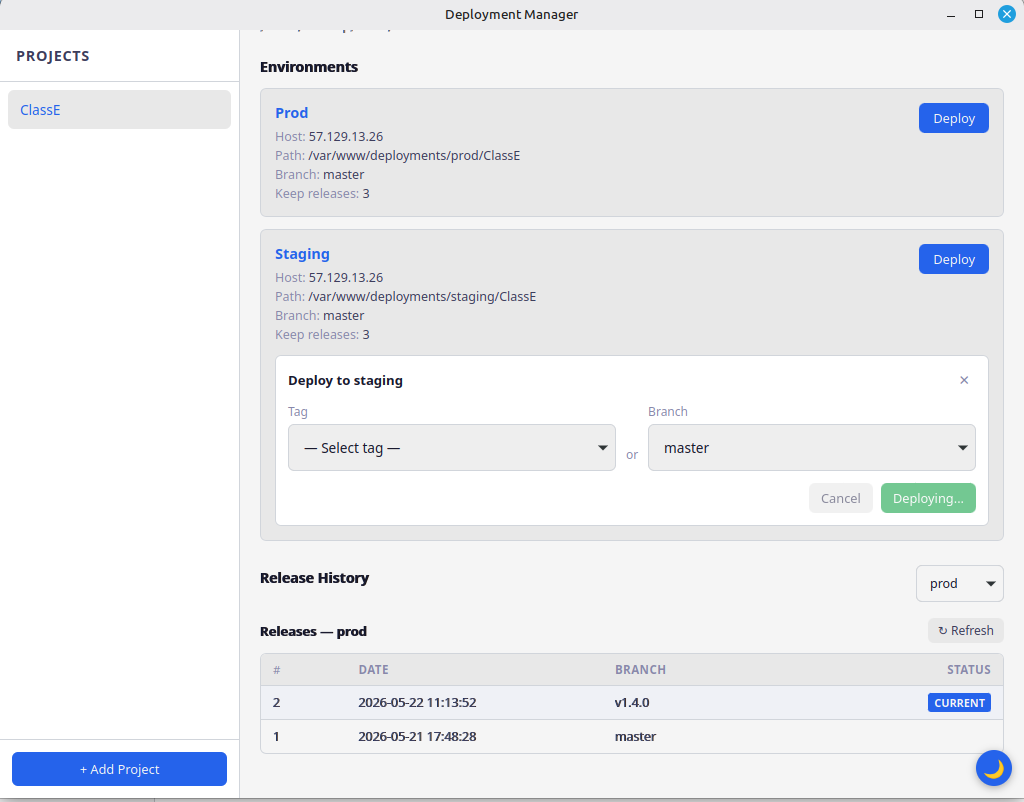
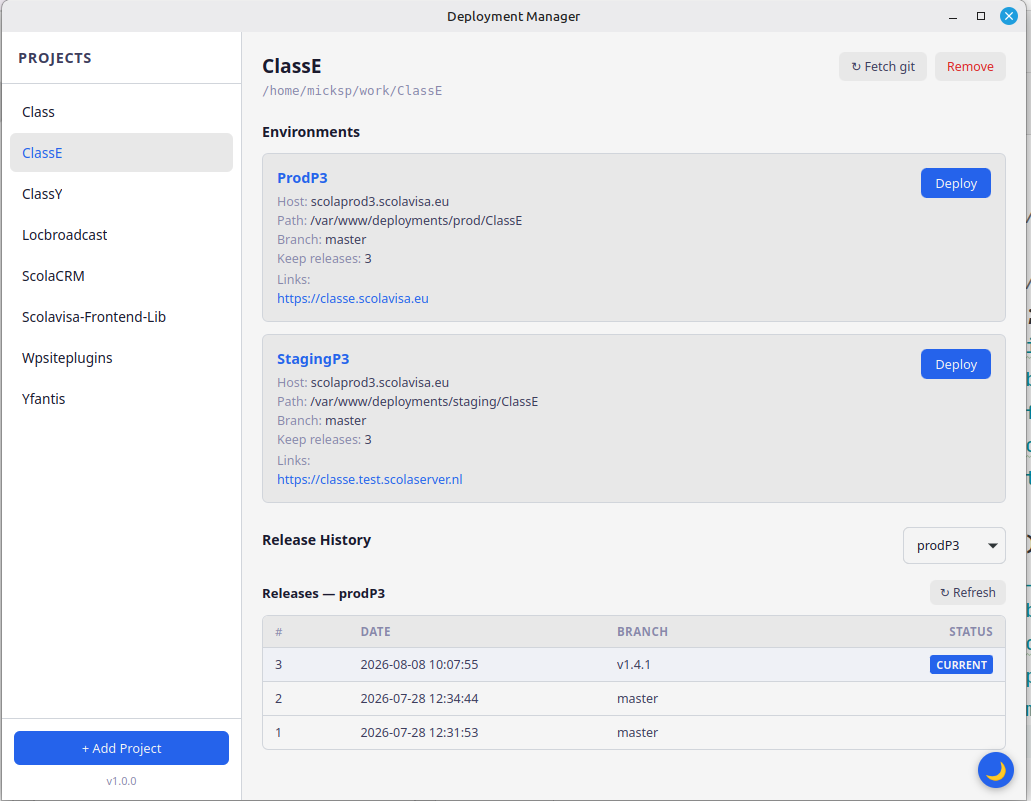
bump version to 1.0.1, update screenshot and update known limitations section of readme

diff --git a/CONTRIBUTING.md b/CONTRIBUTING.md
@@ -258,8 +258,6 @@ The version from `tauri.conf.json` is shown in the app sidebar (bottom). Tauri p
 - **Major** (x.0.0): Breaking changes to config format or behavior
 
 ## Known Limitations
-
-- **No real-time output streaming** — PHP Deployer buffers stdout when not connected to a TTY. Output appears after the deployment completes. This is a known limitation we'd like to solve.
 - **Linux only** — macOS support is planned but not yet tested.
 - **No concurrent deployments** — deploying to the same environment while one is running is not prevented at the UI level (the backend handles it gracefully).
 
